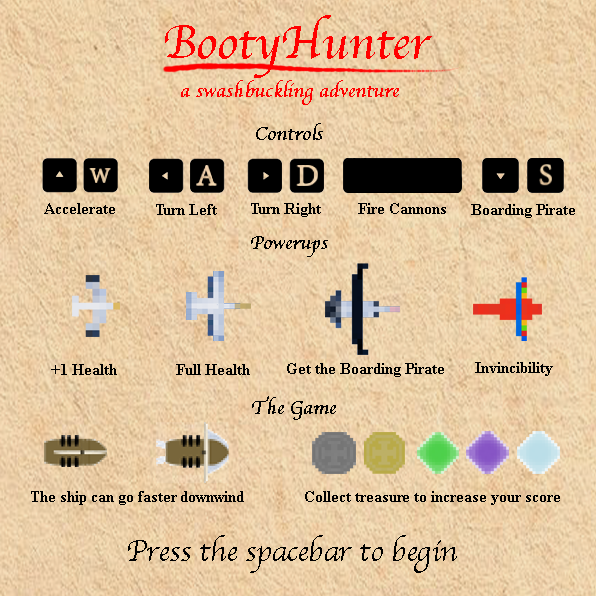
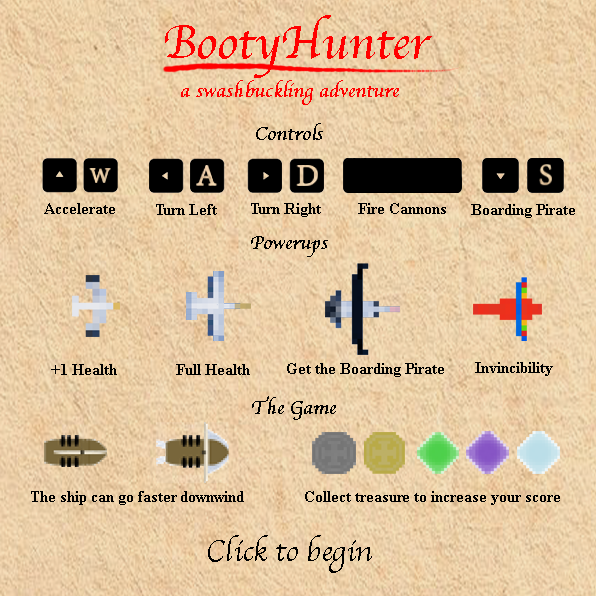
Added intro screen
Apparently, when the game pauses, it pauses ll keyboard inputs, too, so the only way to unpause is to click. I changed the intro screen accordingly.

Changed region(s): [[0.2114, 0.906, 0.755, 0.9664]]

diff --git a/game.js b/game.js
@@ -68,6 +68,7 @@ GameState.prototype.preload = function() {
     this.game.load.spritesheet('sandParticles', 'assets/islandParticles.png', 1, 1);
     this.game.load.spritesheet('explosionParticles', 'assets/explosionParticles.png', 1,1);
     this.game.load.spritesheet('bigExplosionParticles', 'assets/bigExplosionParticles.png', 4, 4);
+    this.game.load.image('startScreen', 'assets/introScreen.png');
     //console.log("Hello world");
 };
 
@@ -189,7 +190,7 @@ GameState.prototype.create = function() {
     this.weapon2.trackSprite(player1.sprite, 0, 0, false);//TODO: shift over to actual position of gun
     //boarding pirate, can only be used when hasPirate === true
     //TODO: make the andle point towards the nearest enemy
-    this.boarder = this.game.add.weapon(1, 'pirate'); //TODO: add pirate sprite and animation
+    this.boarder = this.game.add.weapon(1, 'pirate');
     this.boarder.bulletKillType = Phaser.Weapon.KILL_LIFESPAN;
     this.boarder.bulletLifespan = 650;
     this.boarder.bulletSpeed = 100;
@@ -228,10 +229,23 @@ GameState.prototype.create = function() {
     //this.ship.body.collideWorldBounds = false;//lets the ship wrap around the world
     var scoreIndicator = this.game.add.sprite(13, 19, 'treasureChest');
     this.scoreText = game.add.text(40, 16, '', { fontSize: '16px', fill: '#FFF' });
+
+      game.paused = true;
+      console.log("ready to start");
+      this.game.stage.backgroundColor = 0x019ab2;
+      menu = this.game.add.sprite(game.world.centerX, 325, 'startScreen');
+      menu.anchor.setTo(0.5, 0.5);
+      game.input.onDown.add(unpause, self);
+
 };
 
-
-
+  function unpause(event){
+    if (game.paused){
+        console.log("Let's go!");
+        menu.destroy();
+        game.paused = false;
+      }
+  }
 
 
 // The update() method is called every frame
@@ -1300,7 +1314,7 @@ function playerHitIsland(ship, island){
     this.game.physics.enable(treasure, Phaser.Physics.ARCADE);
     treasure.enableBody = true;
     treasure.body.collideWorldBounds = false;
-    treasure.lifespan = 5000;//TODO: balance treasure lifespan
+    treasure.lifespan = 8000;//TODO: balance treasure lifespan
     treasure.value = this.treasureMinVal[type];
     return treasure;
   }
